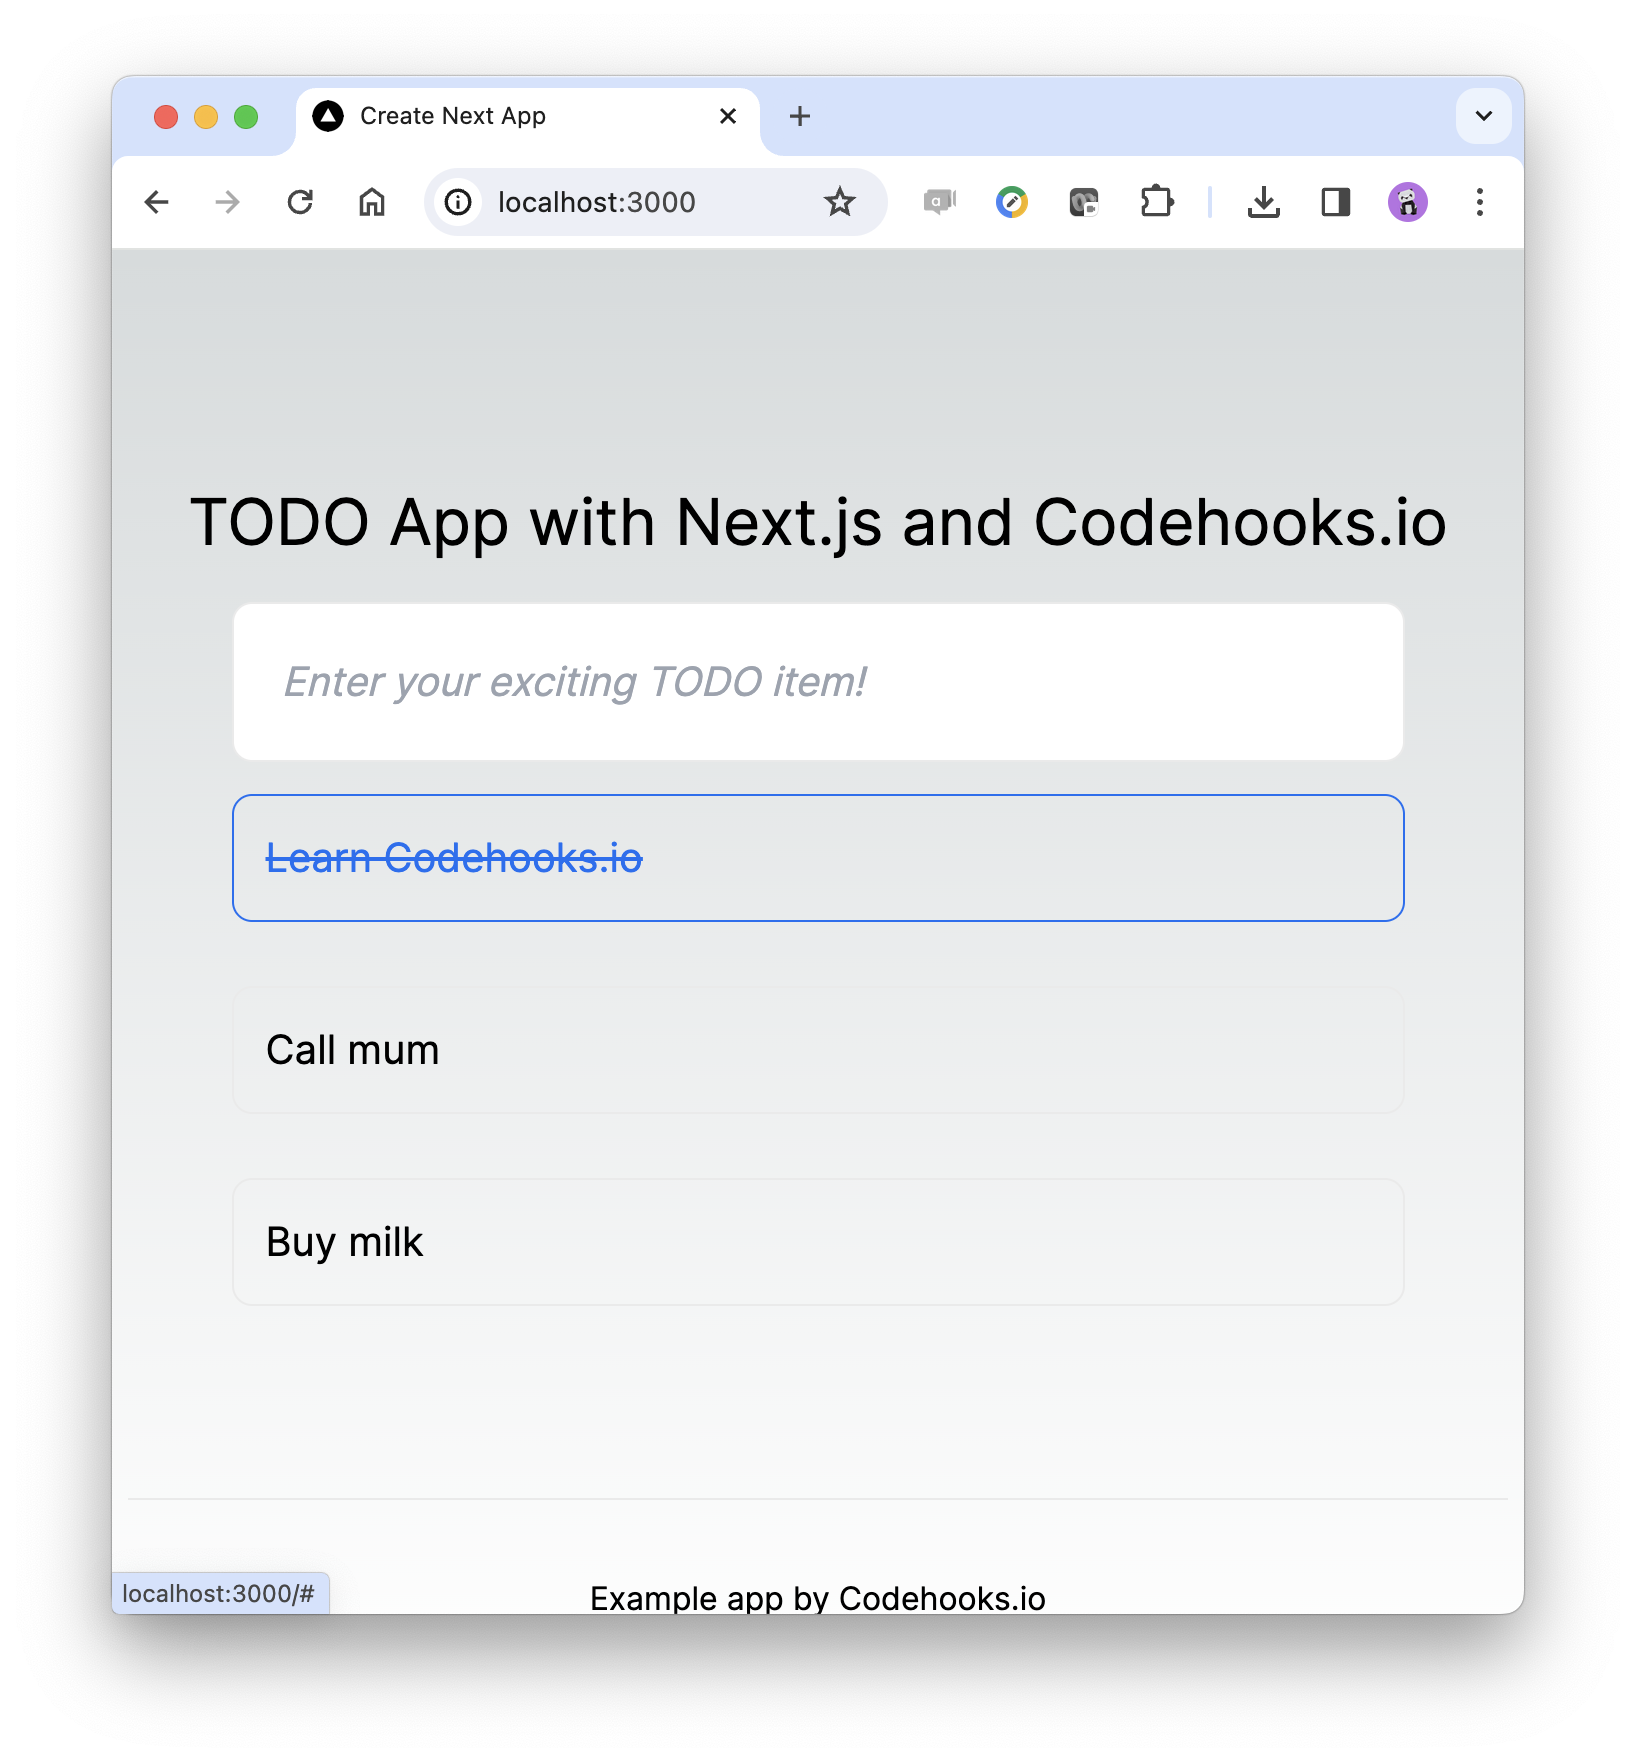
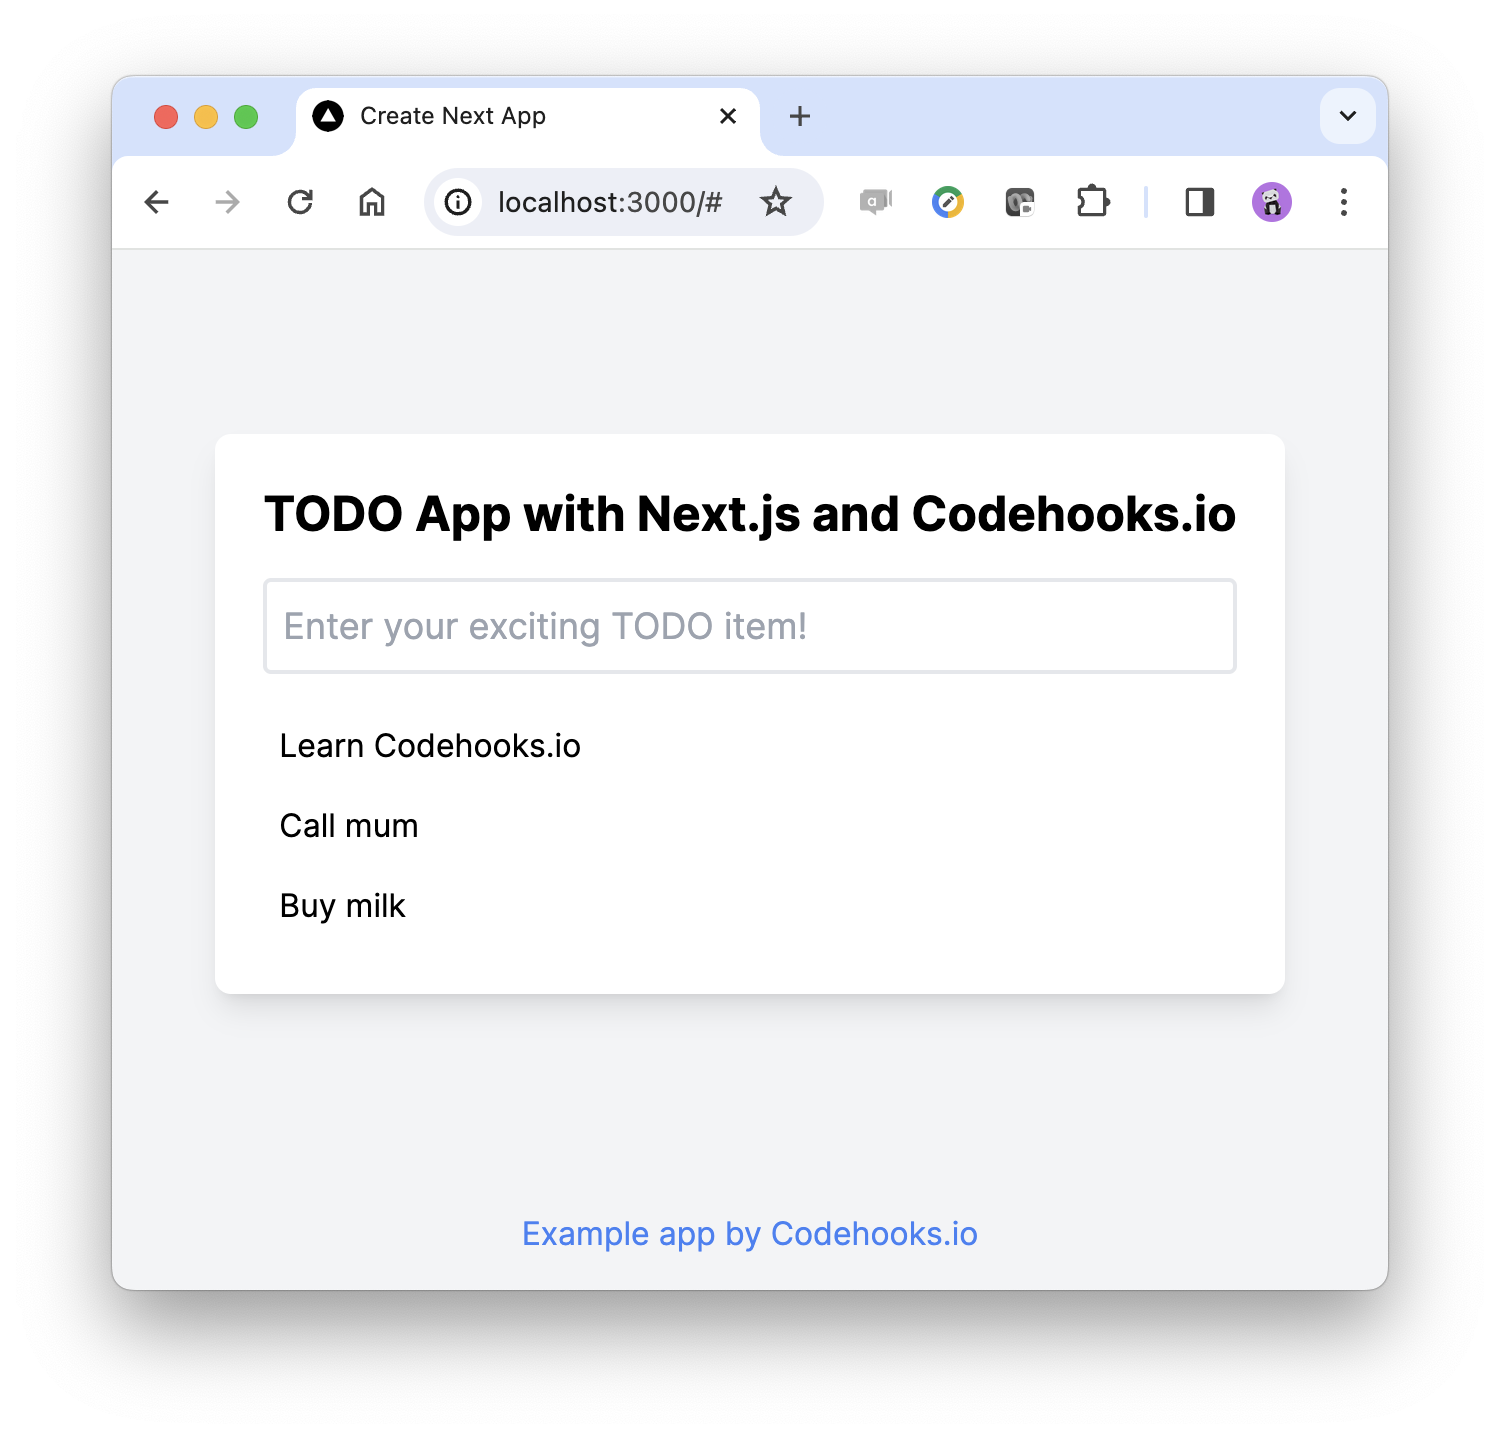
Clean Tailwind CSS in next.js todo app

diff --git a/nextjs-todo/src/app/page.js b/nextjs-todo/src/app/page.js
@@ -1,99 +1,113 @@
-"use client"
+"use client";
 import Head from "next/head";
-import styles from "./styles/Home.module.css";
-import { useEffect, useState } from "react";
+import { useEffect, useState, useRef } from "react";
 
 export default function Home() {
   const [data, setData] = useState([]);
   const [loading, setLoading] = useState(false);
   const [todo, setTodo] = useState("");
+  const inputRef = useRef(null);
+
   const changeHandler = (event) => {
     setTodo(event.target.value);
   };
 
   const addTodo = (event) => {
-    setLoading(true);
     event.preventDefault();
+    setLoading(true);
     fetch(`/api`, {
       method: "POST",
       body: JSON.stringify({todo})
     })
-      .then((res) => res.json())
-      .then((data) => {
-        loadTodos();
-      });
+    .then((res) => res.json())
+    .then(() => {
+      loadTodos();
+      setTodo(""); // This triggers the useEffect below
+    });
   };
 
   const removeTodo = (ID) => {
     setLoading(true);
     fetch(`/api`, {
       method: "DELETE",
-      body: JSON.stringify({todoID: ID})      
+      body: JSON.stringify({todoID: ID})
     })
-      .then((res) => res.json())
-      .then((data) => {
-        loadTodos();
-      });
+    .then((res) => res.json())
+    .then(() => {
+      loadTodos();
+    });
   };
 
   const loadTodos = () => {
-    
     fetch("/api", {method: "GET"})
-      .then((res) => res.json())
-      .then((data) => {
-        console.log("load todos", data);
-        setData(data);
-        setLoading(false);
-      });
+    .then((res) => res.json())
+    .then((data) => {
+      setData(data);
+      setLoading(false);
+    });
   };
 
   useEffect(() => {
-    console.log("effect");
     setLoading(true);
     loadTodos();
   }, []);
 
+  useEffect(() => {
+    if (inputRef.current && !loading) {
+      inputRef.current.focus();
+    }
+  }, [todo, loading]); // Re-focus after todo update and loading state change
+
   if (!data) return "Loading...";
   return (
-    <div className={styles.container}>
+    <div className="flex flex-col justify-between min-h-screen bg-gray-100">
       <Head>
         <title>TODO App with Next.js and Codehooks.io</title>
         <meta name="description" content="Generated by create next app" />
         <link rel="icon" href="/favicon.ico" />
       </Head>
 
-      <main className={styles.main}>
-        <div className={styles.grid}>
-          <h1 className={styles.title}>
+      <main className="flex flex-col justify-center items-center flex-grow">
+        <div className="bg-white p-6 rounded-lg shadow-lg">
+          <h1 className="text-2xl font-bold mb-4">
             TODO App with Next.js and Codehooks.io
-            <br />
           </h1>
           {loading ? (
-            <a href="#" className={styles.card}>
-              <img src="/loader.gif" />
-            </a>
+            <img src="/loader.gif" alt="Loading" className="mx-auto" />
           ) : (
-            <form className={styles.cardForm} onSubmit={addTodo}>
+            <form onSubmit={addTodo} className="mb-4">
               <input
-                className={styles.cardInput}
+                className="w-full p-2 text-lg border-2 border-gray-200 rounded"
                 type="text"
                 name="todo"
+                value={todo}
                 onChange={changeHandler}
                 placeholder="Enter your exciting TODO item!"
+                ref={inputRef}
               />
             </form>
           )}
 
-          {data.map((item) => (
-            <a key={item._id} href="#" onClick={() => removeTodo(item._id)} className={styles.card}>
-              <p>{item.message}</p>
-            </a>
-          ))}
+          <ul>
+            {data.map((item) => (
+              <li key={item._id} className="cursor-pointer">
+                <a
+                  href="#"
+                  onClick={() => removeTodo(item._id)}
+                  className="block p-2 hover:line-through"
+                >
+                  {item.message}
+                </a>
+              </li>
+            ))}
+          </ul>
         </div>
       </main>
 
-      <footer className={styles.footer}>
-          <a href="https://codehooks.io">Example app by Codehooks.io</a>
+      <footer className="text-center p-4">
+          <a href="https://codehooks.io" className="text-blue-500 hover:underline">
+            Example app by Codehooks.io
+          </a>
       </footer>
     </div>
   );

diff --git a/nextjs-todo/src/app/globals.css b/nextjs-todo/src/app/globals.css
@@ -18,12 +18,6 @@
 
 body {
   color: rgb(var(--foreground-rgb));
-  background: linear-gradient(
-      to bottom,
-      transparent,
-      rgb(var(--background-end-rgb))
-    )
-    rgb(var(--background-start-rgb));
 }
 
 @layer utilities {
